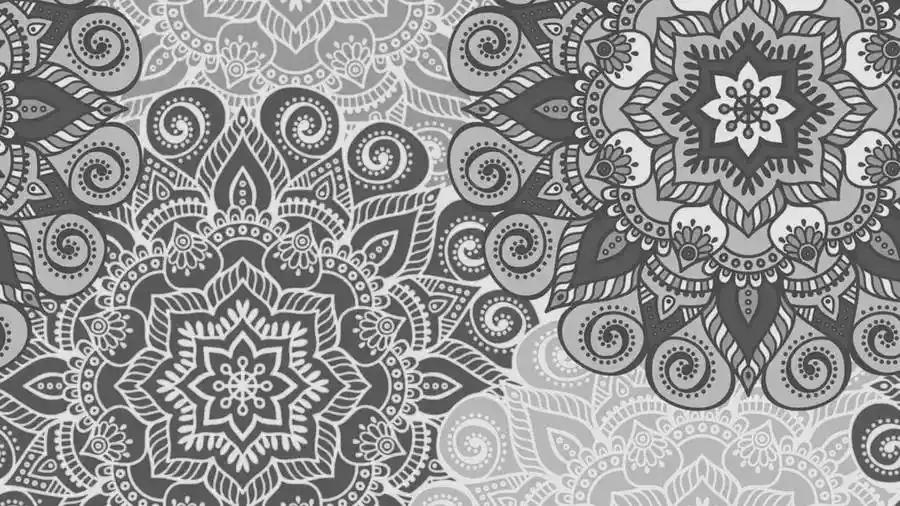
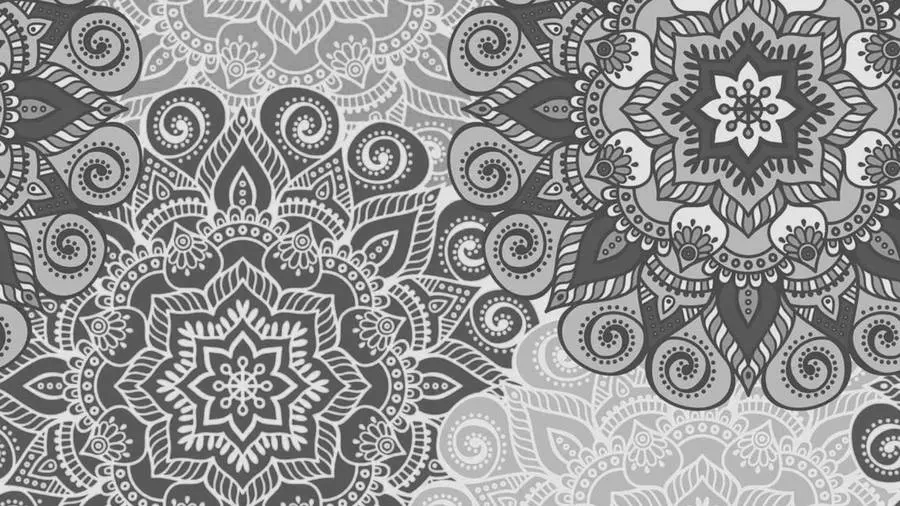
fucking rendering issues

diff --git a/public/static/css/global.css b/public/static/css/global.css
@@ -51,7 +51,7 @@ body::before {
     content: "";
     position: fixed;
     inset: 0;
-    background: url("/static/images/mandala-monochrome.png") center/cover no-repeat;
+    background: url("/static/images/mandala-monochrome.webp") center/cover no-repeat;
     opacity: var(--mandala-light-opacity);
     filter: grayscale(100%);
     mix-blend-mode: normal;
@@ -64,7 +64,7 @@ body::after {
     content: "";
     position: fixed;
     inset: 0;
-    background: url("/static/images/mandala-monochrome.png") center/cover no-repeat;
+    background: url("/static/images/mandala-monochrome.webp") center/cover no-repeat;
     opacity: var(--mandala-dark-opacity);
     filter: invert(1) grayscale(100%);
     mix-blend-mode: normal;